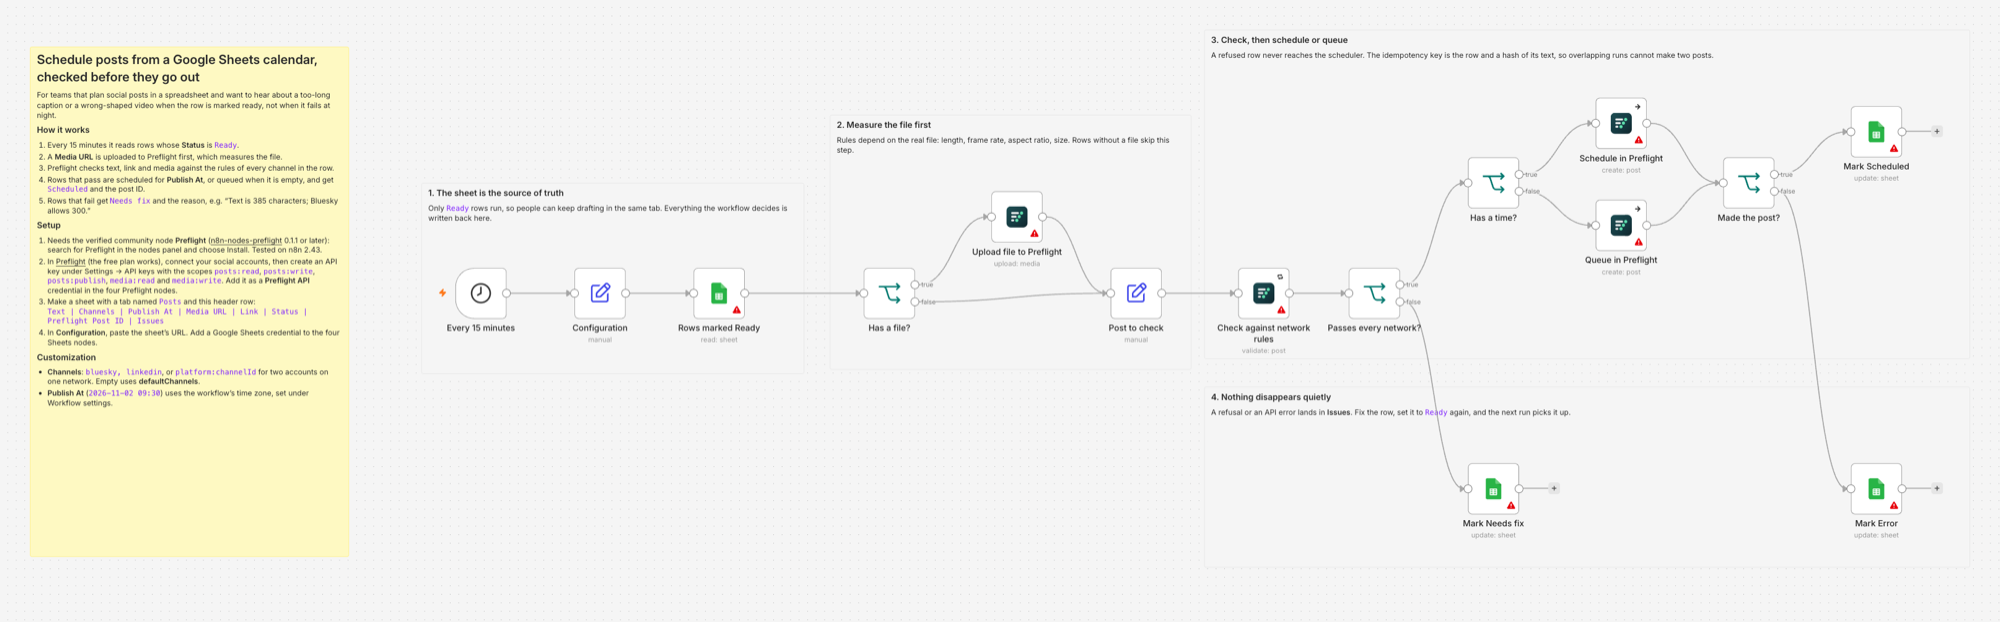
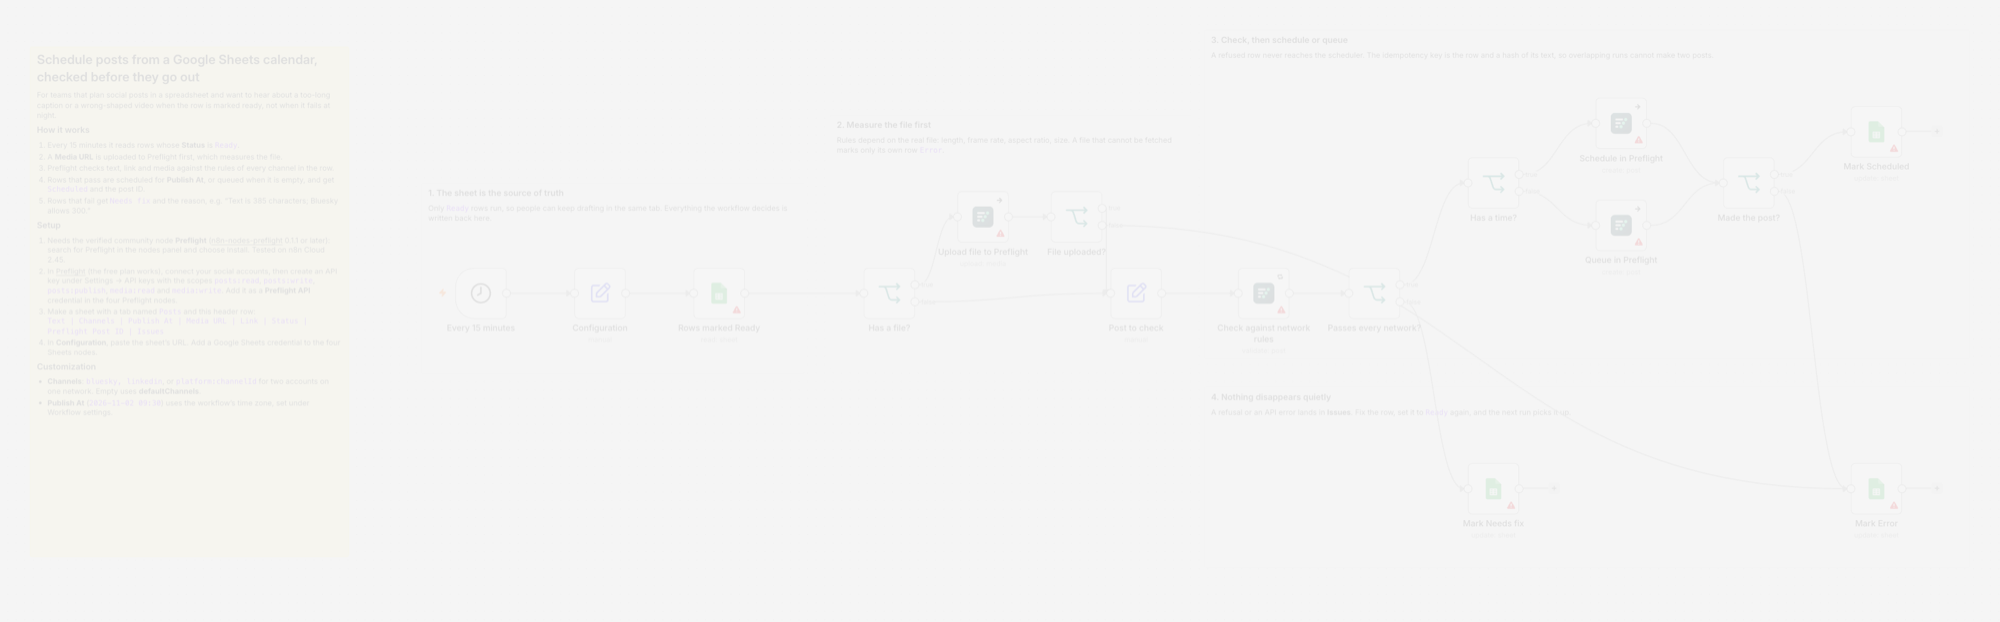
Sheets template: a file that cannot be fetched marks only its own row
Before, a dead Media URL stopped the run and every later row with it, on every
run. Tested on n8n Cloud 2.45.7 with a URL that returns 404.

diff --git a/templates/build.py b/templates/build.py
@@ -297,7 +297,7 @@ def sheets_calendar() -> Workflow:
            'drafting in the same tab. Everything the workflow decides is written back here.',
            -60, -160, 720, 360)
     w.note('Section: media', '### 2. Measure the file first\nRules depend on the real file: length, frame rate, '
-           'aspect ratio, size. Rows without a file skip this step.',
+           'aspect ratio, size. A file that cannot be fetched marks only its own row `Error`.',
            700, -280, 680, 480)
     w.note('Section: check and schedule', '### 3. Check, then schedule or queue\nA refused row never reaches the '
            'scheduler. The idempotency key is the row and a hash of its text, so overlapping runs cannot make two posts.',
@@ -324,7 +324,8 @@ def sheets_calendar() -> Workflow:
     w.node('Upload file to Preflight', PREFLIGHT, {
         'resource': 'media', 'operation': 'upload', 'source': 'url',
         'sourceUrl': "={{ $json['Media URL'] }}", 'kind': 'auto', 'waitUntilReady': True,
-    }, 1, 1000, -140)
+    }, 1, 940, -140, onError='continueRegularOutput')
+    w.node('File uploaded?', 'n8n-nodes-base.if', SAVED, 2.2, 1120, -140)
     row = "$('Rows marked Ready').item.json"
     w.node('Post to check', 'n8n-nodes-base.set', fields('sheets-post', [
         ('row_number', f'={{{{ {row}.row_number }}}}', 'number'),
@@ -362,7 +363,7 @@ def sheets_calendar() -> Workflow:
             'operation': 'update', 'documentId': document, 'sheetName': tab,
             'columns': {
                 'mappingMode': 'defineBelow',
-                'value': {'row_number': f'={{{{ {post}.row_number }}}}', 'Status': status, **extra},
+                'value': {'row_number': f'={{{{ {row}.row_number }}}}', 'Status': status, **extra},
                 'matchingColumns': ['row_number'],
                 'schema': [
                     {'id': column, 'displayName': column, 'required': False, 'defaultMatch': False,
@@ -383,7 +384,9 @@ def sheets_calendar() -> Workflow:
     w.chain('Every 15 minutes', 'Configuration', 'Rows marked Ready', 'Has a file?')
     w.link('Has a file?', 'Upload file to Preflight', 0)
     w.link('Has a file?', 'Post to check', 1)
-    w.link('Upload file to Preflight', 'Post to check')
+    w.link('Upload file to Preflight', 'File uploaded?')
+    w.link('File uploaded?', 'Post to check', 0)
+    w.link('File uploaded?', 'Mark Error', 1)
     w.chain('Post to check', 'Check against network rules', 'Passes every network?')
     w.link('Passes every network?', 'Has a time?', 0)
     w.link('Passes every network?', 'Mark Needs fix', 1)

diff --git a/templates/README.md b/templates/README.md
@@ -19,7 +19,7 @@ What they have in common:
 - **Errors become data.** The Preflight nodes that create posts are set to continue on error, and an If node after them sends a refusal to the sheet, the form or a "Not saved" node instead of stopping the run.
 - **Nothing goes live by surprise.** Template 1 makes drafts with a key that cannot publish; TikTok in template 3 goes to the creator's inbox with privacy *Only me* until you change it.
 
-Templates 1, 2 and 3 were run end to end with node 0.1.1 against real Preflight workspaces, every branch included: 1 and 3 on self-hosted n8n 2.43 (template 3 with Create switched to drafts), 2 on n8n Cloud with a real Google Sheet, in a Czech-locale spreadsheet, including a row set back to Ready and a corrected row.
+Templates 1, 2 and 3 were run end to end with node 0.1.1 against real Preflight workspaces, every branch included: 1 and 3 on self-hosted n8n 2.43 (template 3 with Create switched to drafts), 2 on n8n Cloud with a real Google Sheet, in a Czech-locale spreadsheet, including a row set back to Ready, a corrected row and a file URL that returns 404.
 
 ## Rebuilding
 

diff --git a/CHANGELOG.md b/CHANGELOG.md
@@ -3,7 +3,7 @@
 ## Unreleased
 
 - **Preflight** node: with "On Error: Continue (using error output)", a failed item now goes to the error output. Until now it stayed on the success output, because n8n only moves an item that carries the error itself.
-- Templates rebuilt for the n8n template gallery: overview and section sticky notes, a Configuration node, refusals handled as data. The RSS template rewrites a refused caption once with Preflight's reasons and uses Anthropic. The alert template is Slack only, and the Google Sheets template now keeps the uploaded file on the post.
+- Templates rebuilt for the n8n template gallery: overview and section sticky notes, a Configuration node, refusals handled as data. The RSS template rewrites a refused caption once with Preflight's reasons and uses Anthropic. The alert template is Slack only, and the Google Sheets template now keeps the uploaded file on the post, reads date cells regardless of the sheet's locale, and a file it cannot fetch marks only its own row.
 
 ## 0.1.1
 
